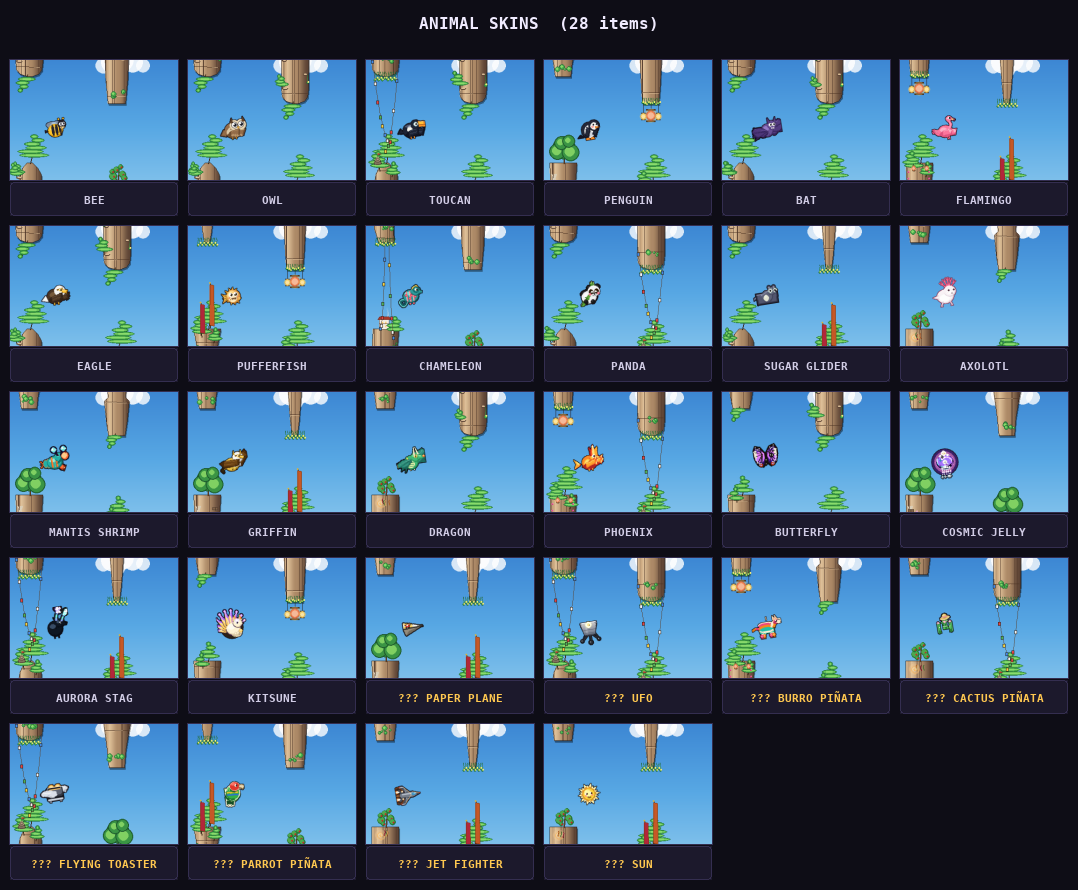
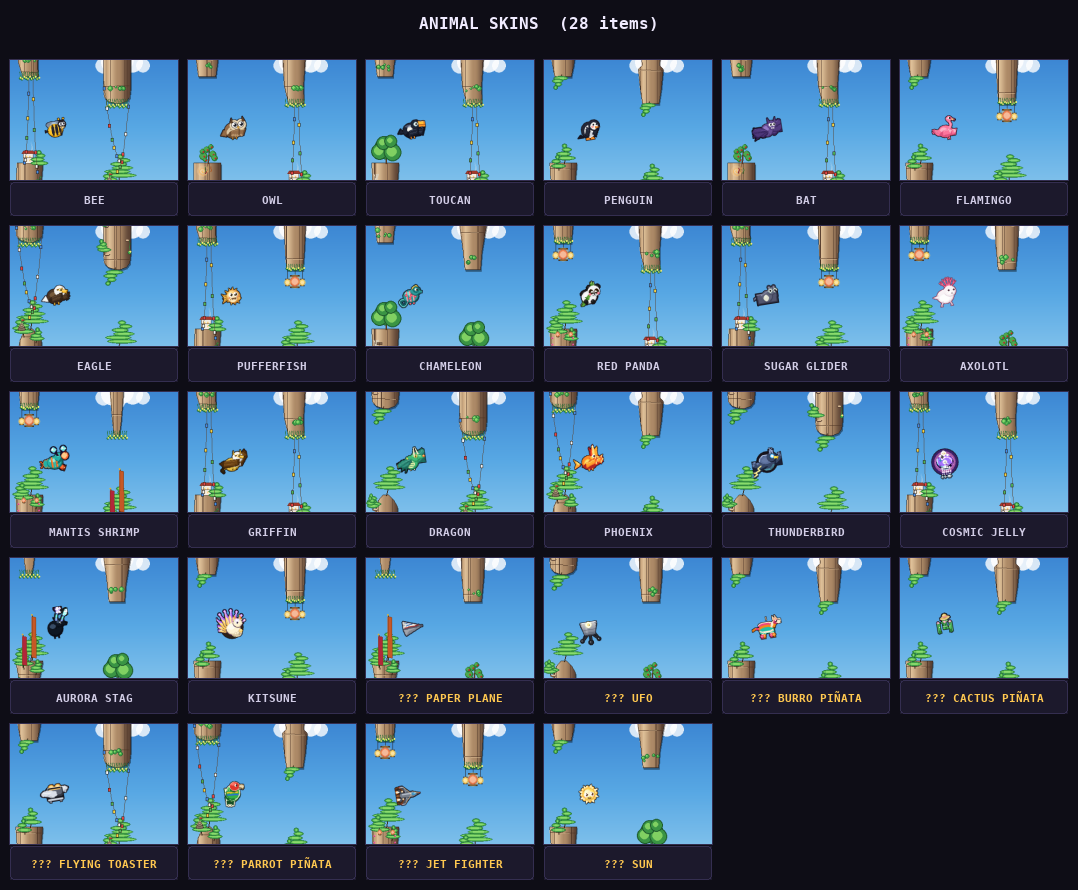
Animal category: sync thunderbird + RED PANDA, add store-page figure
Catalog fixes synced from v5_store_animals:
- skin_butterfly → skin_thunderbird (THUNDERBIRD, 1800 coins, epic)
- skin_red_panda name: "PANDA" → "RED PANDA"

Wires game/animal_thunderbird.py into the sub-module import loop and
removes the old inline butterfly builder from the hardcoded BUILDERS dict.

Adds tools/render_animal_store.py: drives the live App renderer on the
ANIMALS tab, captures all 4 pages (28 items × 8 per page), and assembles
them in a 2×2 grid showing real CONSTELLATION cards with rarity gems,
ribbons, and price chips — docs/store_redesign/animal/animal_store_pages.png.

Also regenerates animal_overview.png to reflect the thunderbird swap.

diff --git a/tools/render_animal_store.py b/tools/render_animal_store.py
@@ -1,0 +1,78 @@
+"""Animal store tab — pixel-faithful page captures.
+
+Drives the live App renderer with the ANIMALS tab active, captures every
+page, and assembles them in a 2×2 grid so all 28 items (4 pages × 8 cards)
+are visible in a single PNG.  Secret items show as ??? as the player would
+see them before purchase.
+
+Usage (from repo root):
+    SDL_VIDEODRIVER=dummy python tools/render_animal_store.py
+Output:
+    docs/store_redesign/animal/animal_store_pages.png
+"""
+import os
+import sys
+
+os.environ.setdefault("SDL_VIDEODRIVER", "dummy")
+os.environ.setdefault("SDL_AUDIODRIVER", "dummy")
+sys.path.insert(0, os.path.dirname(os.path.dirname(os.path.abspath(__file__))))
+
+import pygame
+pygame.init()
+
+from game.scenes import App, STATE_STORE
+from game.store import StoreScene
+from game.hud import _font, _GOLD_PALE, _GOLD_DEEP
+
+_ANIMALS_TAB = 2   # COSTUMES=0, PARROTS=1, ANIMALS=2, SHOES=3, …
+
+app = App()
+app._cooldown_t = 0.0
+app._fetch_pending = False
+app.store = StoreScene()
+app.state = STATE_STORE
+app.store.tab = _ANIMALS_TAB
+app.store.view = "category"   # bypass the lagoon hub landing screen
+
+pages = []
+for p in range(app.store.n_pages):
+    app.store.page = p
+    app.store.update(0.0)
+    app._render()
+    pages.append(app.screen.copy())
+
+# Assemble in a 2-column grid (2 pages per row → 2 rows for 4 pages)
+pw, ph = pages[0].get_size()
+COLS = 2
+ROWS = -(-len(pages) // COLS)   # ceiling division
+MARGIN, GUTTER, TITLE_H = 24, 20, 60
+CAPTION_H = 24
+
+sheet_w = MARGIN * 2 + COLS * pw + (COLS - 1) * GUTTER
+sheet_h = TITLE_H + ROWS * (MARGIN + ph + CAPTION_H)
+
+sheet = pygame.Surface((sheet_w, sheet_h))
+sheet.fill((18, 16, 28))
+
+title_surf = _font(26, True).render(
+    f"ANIMALS — STORE TAB  ({len(pages)} pages)", True, _GOLD_PALE)
+sheet.blit(title_surf, title_surf.get_rect(midtop=(sheet_w // 2, 14)))
+
+for i, pg in enumerate(pages):
+    col = i % COLS
+    row = i // COLS
+    x = MARGIN + col * (pw + GUTTER)
+    y = TITLE_H + row * (MARGIN + ph + CAPTION_H)
+    pygame.draw.rect(sheet, (*_GOLD_DEEP, 255),
+                     pygame.Rect(x - 2, y - 2, pw + 4, ph + 4), width=2)
+    sheet.blit(pg, (x, y))
+    cap = _font(13, True).render(
+        f"PAGE {i + 1} / {len(pages)}", True, (180, 172, 200))
+    sheet.blit(cap, cap.get_rect(midtop=(x + pw // 2, y + ph + 5)))
+
+out_dir = os.path.join(os.path.dirname(os.path.dirname(os.path.abspath(__file__))),
+                       "docs", "store_redesign", "animal")
+os.makedirs(out_dir, exist_ok=True)
+out_path = os.path.join(out_dir, "animal_store_pages.png")
+pygame.image.save(sheet, out_path)
+print(f"Saved {out_path}  ({sheet.get_width()}×{sheet.get_height()}px, {len(pages)} pages)")

diff --git a/game/store_catalog.py b/game/store_catalog.py
@@ -69,7 +69,7 @@ CATALOG: dict[str, dict] = {
     "skin_eagle":    {"name": "EAGLE",     "cost": 700,  "kind": "skin", "group": "animal"},
     "skin_pufferfish":   {"name": "PUFFERFISH",   "cost": 620,  "kind": "skin", "group": "animal"},
     "skin_chameleon":    {"name": "CHAMELEON",    "cost": 680,  "kind": "skin", "group": "animal"},
-    "skin_red_panda":    {"name": "PANDA",        "cost": 740,  "kind": "skin", "group": "animal"},
+    "skin_red_panda":    {"name": "RED PANDA",    "cost": 740,  "kind": "skin", "group": "animal"},
     "skin_sugar_glider": {"name": "SUGAR GLIDER", "cost": 820,  "kind": "skin", "group": "animal"},
     "skin_axolotl":      {"name": "AXOLOTL",      "cost": 900,  "kind": "skin", "group": "animal"},
     "skin_mantis_shrimp": {"name": "MANTIS SHRIMP", "cost": 980, "kind": "skin", "group": "animal"},
@@ -77,7 +77,7 @@ CATALOG: dict[str, dict] = {
     "skin_dragon":   {"name": "DRAGON",    "cost": 1200, "kind": "skin", "group": "animal"},
     "skin_phoenix":  {"name": "PHOENIX",   "cost": 1500, "kind": "skin", "group": "animal"},
     # Legendary tier — spectacle showpieces, priced clearly above the rest.
-    "skin_butterfly":    {"name": "BUTTERFLY",    "cost": 1800, "kind": "skin", "group": "animal"},
+    "skin_thunderbird":  {"name": "THUNDERBIRD",  "cost": 1800, "kind": "skin", "group": "animal"},
     "skin_cosmic_jelly": {"name": "COSMIC JELLY", "cost": 2200, "kind": "skin", "group": "animal"},
     "skin_aurora_stag":  {"name": "AURORA STAG",  "cost": 2800, "kind": "skin", "group": "animal"},
     "skin_kitsune":      {"name": "KITSUNE",      "cost": 3500, "kind": "skin", "group": "animal"},

diff --git a/game/animal_skins.py b/game/animal_skins.py
@@ -1317,7 +1317,6 @@ BUILDERS = {
     "skin_flamingo":  get_flamingo,
     "skin_eagle":     get_eagle,
     "skin_bee":       get_bee,
-    "skin_butterfly": get_butterfly,
     "skin_dragon":    get_dragon,     # premium gacha showpiece
     "skin_phoenix":   get_phoenix,    # premium gacha showpiece
 }
@@ -1331,7 +1330,7 @@ BUILDERS = {
 for _modname in (
     "animal_axolotl", "animal_pufferfish", "animal_chameleon",
     "animal_red_panda", "animal_sugar_glider", "animal_mantis_shrimp",
-    "animal_griffin", "animal_cosmic_jelly",
+    "animal_griffin", "animal_thunderbird", "animal_cosmic_jelly",
     "animal_aurora_stag", "animal_kitsune",
     # Secret ultra-premium NON-creature flyers (masked as ??? in the store).
     "animal_paper_plane", "animal_jet_fighter", "animal_ufo", "animal_toaster",
